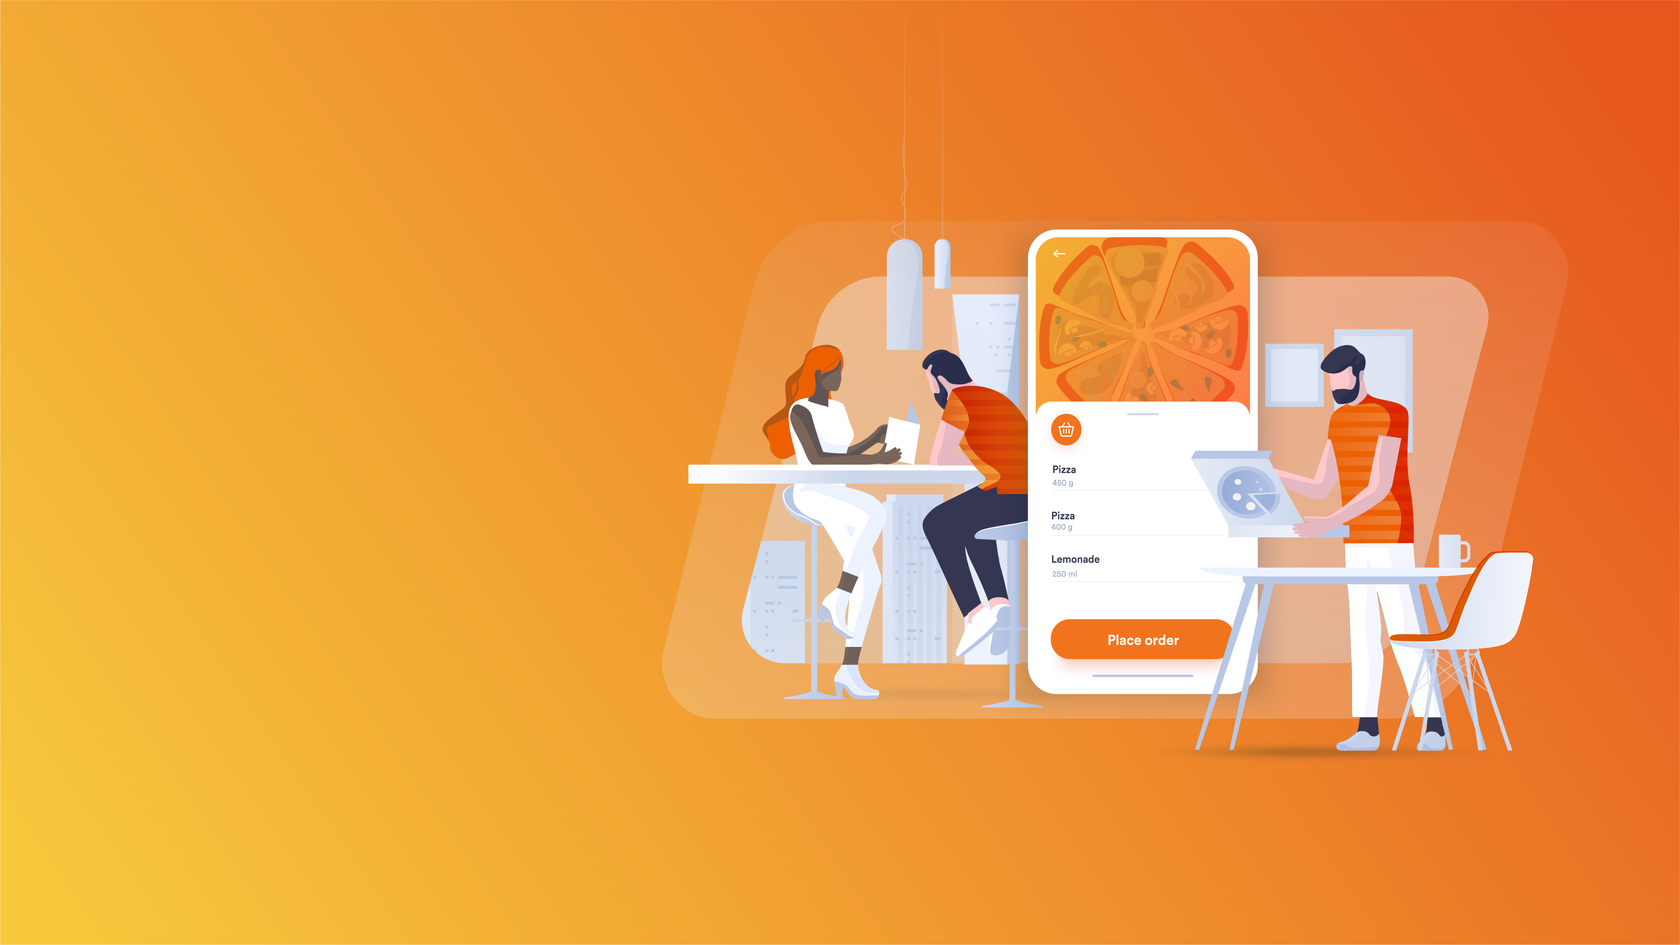
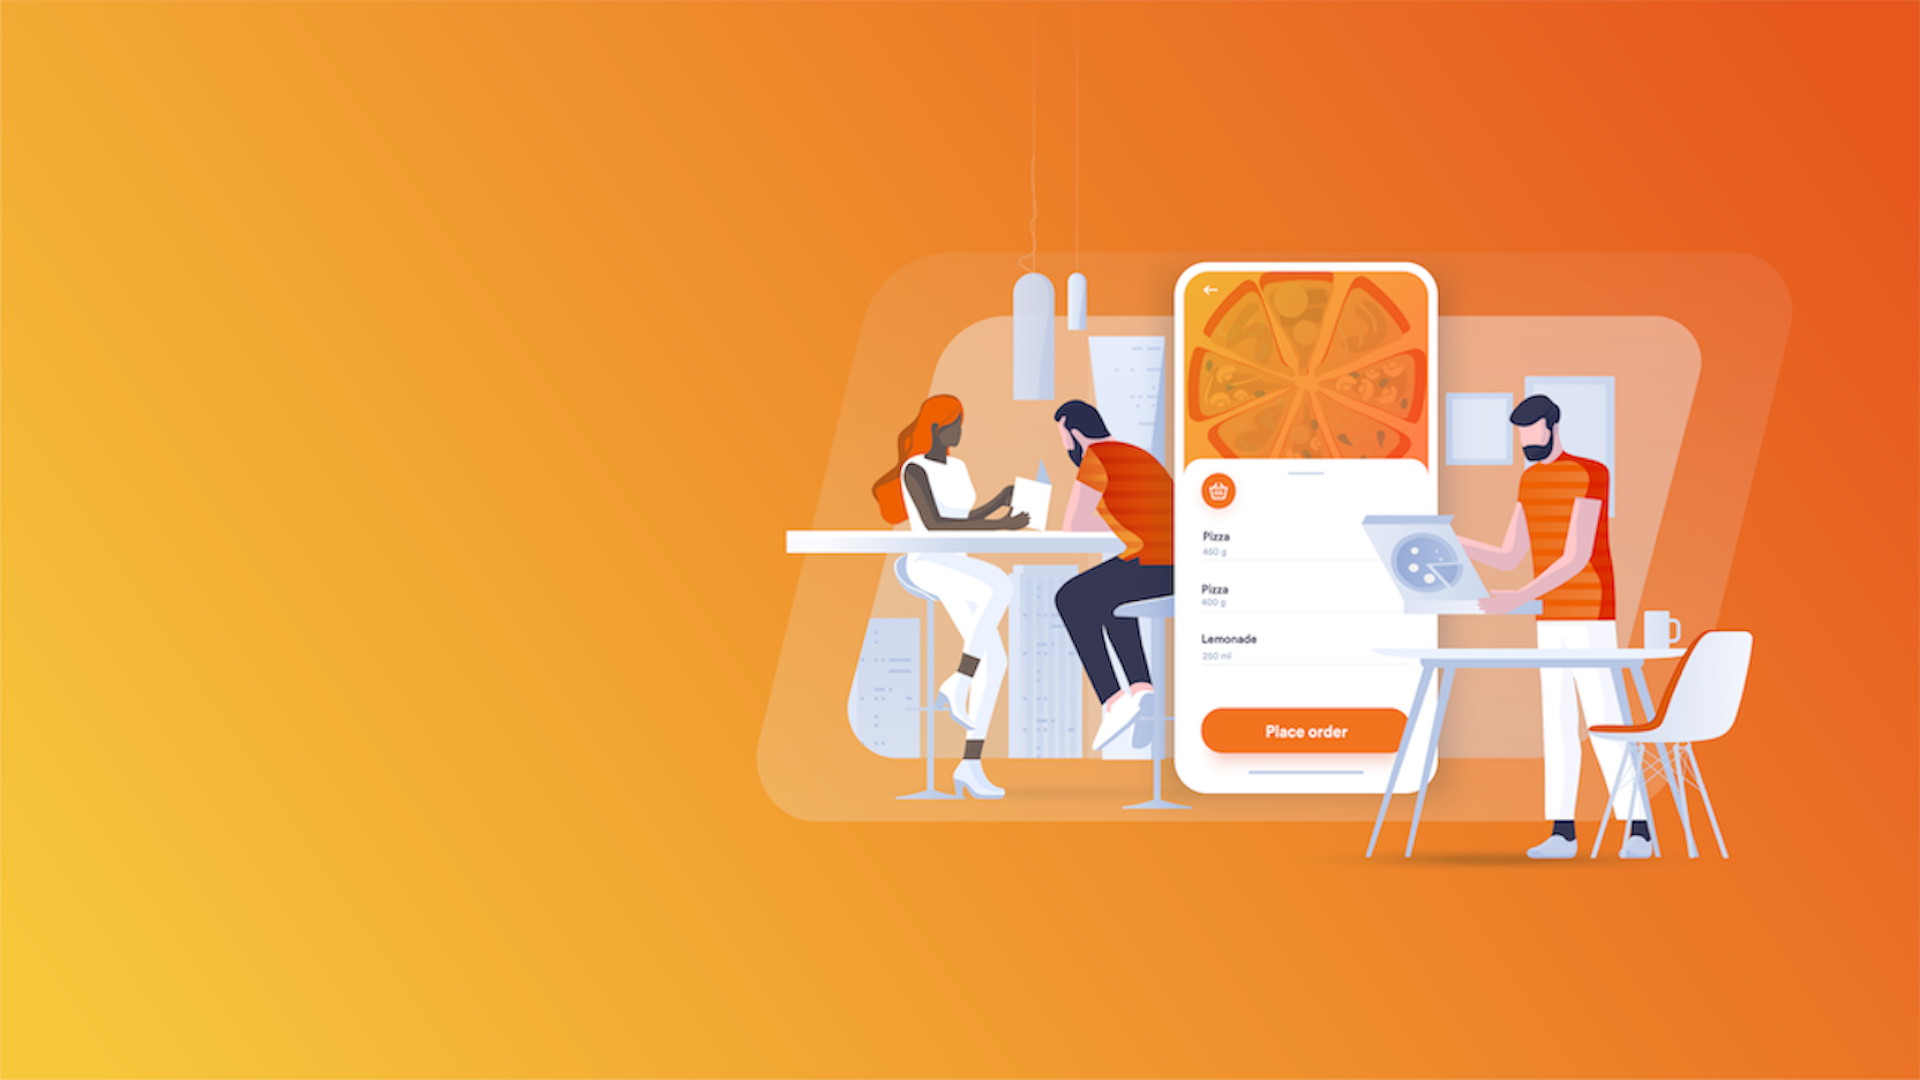
images optimized

diff --git a/client/src/Components/LoginWaiter/LoginWaiter.module.css b/client/src/Components/LoginWaiter/LoginWaiter.module.css
@@ -1,9 +1,5 @@
 .waiter {
-  /* max-width: 100vw; */
   height: 98vh;
-  /* background: url('../../../public/img/waiter.jpg') no-repeat;
-  background-size: cover;
-  background-position: center; */
   background-image: linear-gradient(
       to right bottom,
       rgba(249, 250, 251, 0.982),

diff --git a/client/src/Components/Home/Home.jsx b/client/src/Components/Home/Home.jsx
@@ -25,7 +25,7 @@ const items = [
   getItem("Option 3", "3", <ContainerOutlined />),
 ];
 const Home = () => {
-  const [collapsed, setCollapsed] = useState(false);
+  const [collapsed, setCollapsed] = useState(true);
   const toggleCollapsed = () => {
     setCollapsed(!collapsed);
   };
